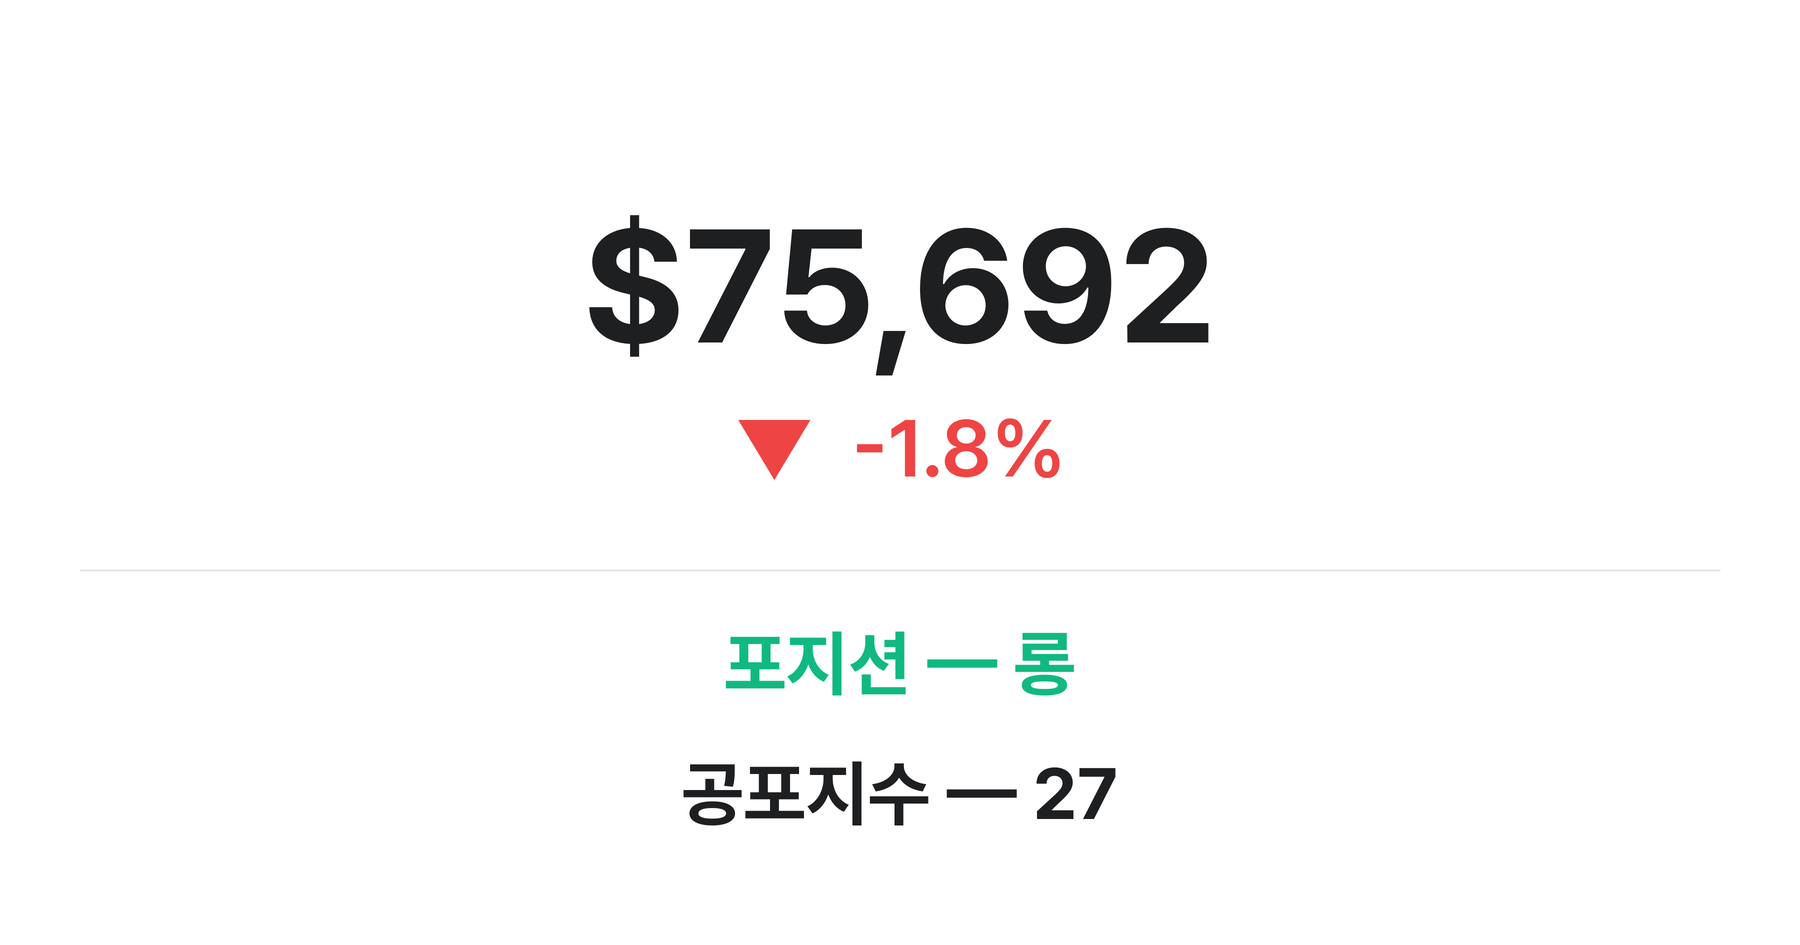
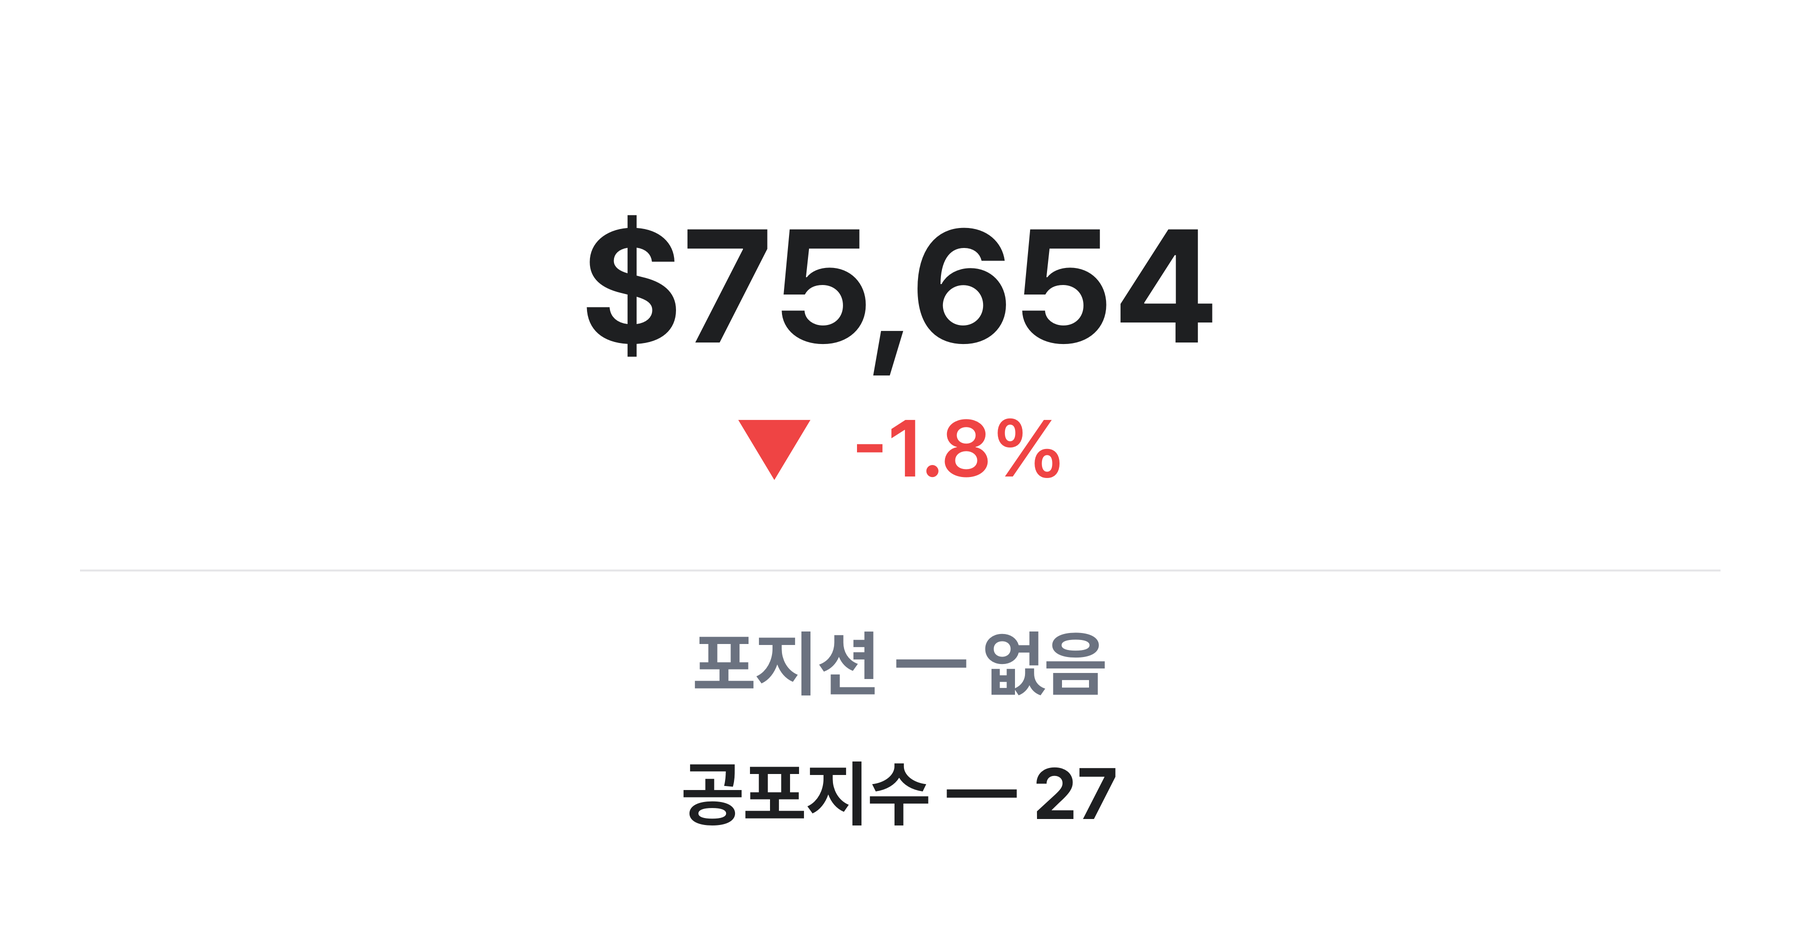
fix: [26/04/19] 포지션 태그 수정 — 롱 보유 → 롱 매도 (매도 신호 반영)

diff --git a/content/posts/260419-defi-292m-hack-btc-pullback.md b/content/posts/260419-defi-292m-hack-btc-pullback.md
@@ -1,14 +1,14 @@
 ---
 title: "[26/04/19] 데일리 레포트 — $2.9억 DeFi 해킹 충격, 비트코인 상승분 반납"
 date: 2026-04-19
-tags: ["롱 보유", "비트코인", "BTC", "시장분석", "자동매매", "데일리레포트", "바이낸스", "하락장", "DeFi", "해킹", "휴전", "Aave", "펀딩레이트", "공포"]
+tags: ["롱 매도", "비트코인", "BTC", "시장분석", "자동매매", "데일리레포트", "바이낸스", "하락장", "DeFi", "해킹", "휴전", "Aave", "펀딩레이트", "공포"]
 description: "2026년 최대 규모의 DeFi 해킹이 크립토 시장을 뒤흔들었다. 전통 시장이 사상최고를 갱신하는 동안 비트코인은 전일 상승분을 반납하며 $75,692로 후퇴했고, 이틀 앞으로 다가온 미-이란 휴전 만료가 시장의 다음 변수로 떠오르고 있다."
 author: "비트노마드"
 cover: "/images/posts/260419-dashboard.svg"
 draft: false
 ---
 
-> 포지션: **롱 보유**
+> 포지션: **롱 매도**
 
 2026년 최대 규모의 DeFi 해킹이 크립토 시장을 뒤흔들었다. 토요일 새벽 Kelp DAO에서 $2.92억 규모의 자산이 탈취되면서 주요 DeFi 프로토콜에 연쇄 충격이 퍼지고 있다. 전통 시장이 호르무즈 재개방 효과로 사상최고를 갱신하는 동안, 비트코인은 전일 상승분을 고스란히 반납하며 $75,692로 1.8% 하락했다. 이틀 뒤 만료되는 미-이란 휴전 시한이 시장의 다음 분기점이 될 전망이다.
 
@@ -127,19 +127,19 @@ BTC 도미넌스는 DeFi 해킹 리스크가 알트코인에 집중되면서 소
 
 ## 자동매매 현황
 
-자동매매 시스템은 현재 **상승 방향 베팅을 유지**하고 있다. 전일 호르무즈 해협 재개방이라는 매크로 호재와 함께 기술적 조건이 충족되면서 진입한 포지션으로, 시장 레짐은 하락장으로 판단하고 있으나 역추세 반등 구간에서의 기회를 포착한 것이다.
+자동매매 시스템은 금일 09:00 일봉 마감과 함께 **매도 신호를 감지**했다. 전일 호르무즈 재개방 호재로 진입했던 상승 방향 포지션이었으나, 중기 추세선의 기울기가 꺾이면서 청산 조건이 충족된 것이다.
 
-진입 근거는 세 가지로 요약된다. 첫째, 추세 강도 지표가 약화되며 기존 하락 추세의 힘이 소진되고 있음을 시사했다. 둘째, 단기 이동평균선이 가격 위로 정렬되며 상승 모멘텀이 형성되기 시작했다. 셋째, 파생상품 시장의 극단적 숏 편향이 스퀴즈를 통한 상방 압력을 만들 수 있는 환경이었다.
+진입 당시의 기술적 근거는 유효했다. 하락장에서 추세 강도 약화와 단기 모멘텀 전환을 포착한 역추세 매수였으나, $77,000대에서 강한 매물벽에 부딪히며 상승 모멘텀이 소진됐다. 시스템이 추적하는 중기 추세선이 상승에서 하락으로 전환되면서, 더 이상 포지션을 유지할 기술적 근거가 사라졌다. 현재 최적 체결 타이밍을 탐색하며 청산을 진행 중이다.
 
-### 휴전 연장 속 상승 가속
+### 휴전 연장과 반등 시 재진입 가능성
 
-상승 방향의 시나리오다. 4월 21일 미-이란 휴전이 연장되고 2차 협상이 성사될 경우, 유가 안정과 함께 위험자산 선호가 강화되며 비트코인이 $77,000-78,000 저항대를 돌파할 수 있다. 이 경우 시스템은 포지션을 유지하며 추세 전환을 추적한다.
+청산 이후 상승 시나리오다. 4월 21일 미-이란 휴전이 연장되고 2차 협상이 성사될 경우, 유가 안정과 함께 비트코인이 $77,000-78,000 저항대를 재시험할 수 있다. 이 경우 시스템은 모멘텀 조건이 재충족되면 새로운 진입을 검토한다.
 
 ### 휴전 결렬과 DeFi 불안 확산
 
-하락 방향의 시나리오다. 휴전이 만료되고 호르무즈 해협이 재봉쇄될 경우 유가 급등과 함께 위험자산 전반이 급락할 수 있다. DeFi 해킹의 후속 영향이 겹치면 $73,000 이하로의 하방 이탈 가능성이 열린다. 시스템은 손실 제한 기준에 도달하면 포지션을 정리하고 재진입 조건을 탐색한다.
+추가 하락 시나리오다. 휴전이 만료되고 호르무즈 해협이 재봉쇄될 경우 유가 급등과 함께 위험자산 전반이 급락할 수 있다. DeFi 해킹의 후속 영향이 겹치면 $73,000 이하로의 하방 이탈 가능성이 열린다. 시스템은 충분한 하락 후 과매도 영역에서의 재진입 기회를 모색할 것이다.
 
-현재로서는 전통 시장의 사상최고 갱신, 달러 약세, 극단적 숏 편향이라는 세 가지 상승 요인이 DeFi 해킹과 휴전 불확실성이라는 하방 요인과 균형을 이루고 있다. 시스템은 월요일 휴전 결과가 나올 때까지 현 포지션을 유지하며 변동성에 대비하고 있다.
+현재로서는 전통 시장의 사상최고 갱신, 달러 약세, 극단적 숏 편향이라는 상승 요인이 DeFi 해킹과 휴전 불확실성이라는 하방 요인과 대치하고 있다. 시스템은 포지션을 정리하고 월요일 휴전 결과에 따른 새로운 방향성을 기다리는 전략을 취하고 있다.
 
 <div style="text-align:center; margin:24px 0;">
   <a href="/trades/binance/" style="display:inline-block; padding:12px 32px; background:#2d6a4f; color:#fff; border-radius:8px; text-decoration:none; font-weight:bold;">실매매 내역 보기 →</a>
